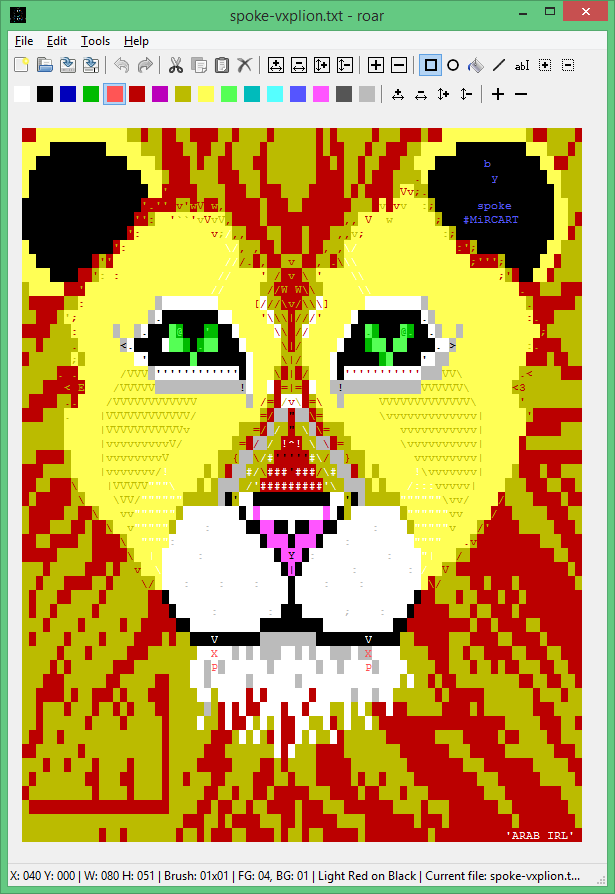
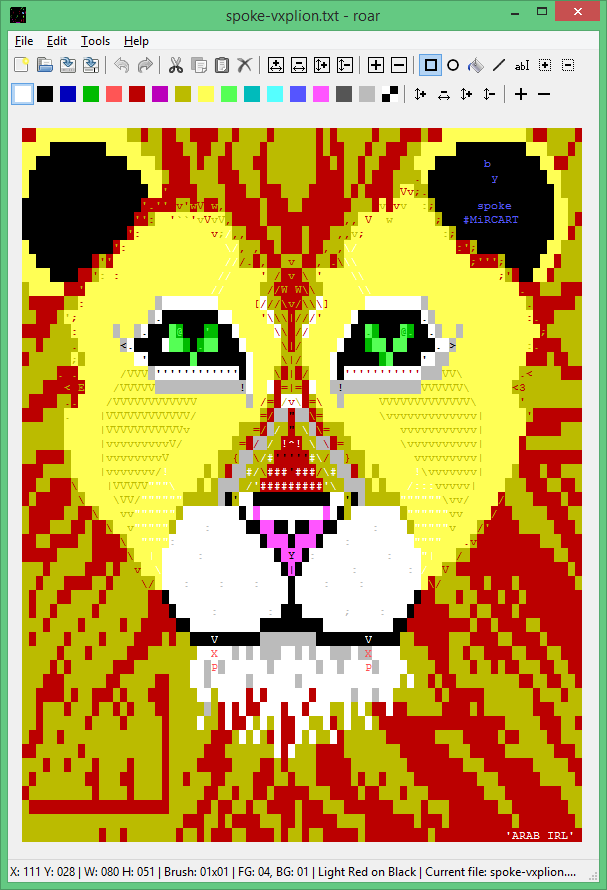
libcanvas/CanvasImportStore.py:importTextBuffer(): correctly process mIRC foreground colour sequences. assets/images/roar.png: updated. assets/text/arab-puke.txt: removed. assets/text/spoke-vxplion.txt: added.

diff --git a/libcanvas/CanvasImportStore.py b/libcanvas/CanvasImportStore.py
@@ -107,8 +107,8 @@ class CanvasImportStore():
                     if m:
                         if (m[2] != None) and (m[3] != None):
                             inCurColours = (int(m[2]), int(m[3]))
-                        elif (m[2] == None) and (m[3] != None):
-                            inCurColours = (int(m[2]), int(curColours[1]))
+                        elif (m[2] != None) and (m[3] == None):
+                            inCurColours = (int(m[2]), int(inCurColours[1]))
                         else:
                             inCurColours = (15, 1)
                         inCurCol += len(m[0])
